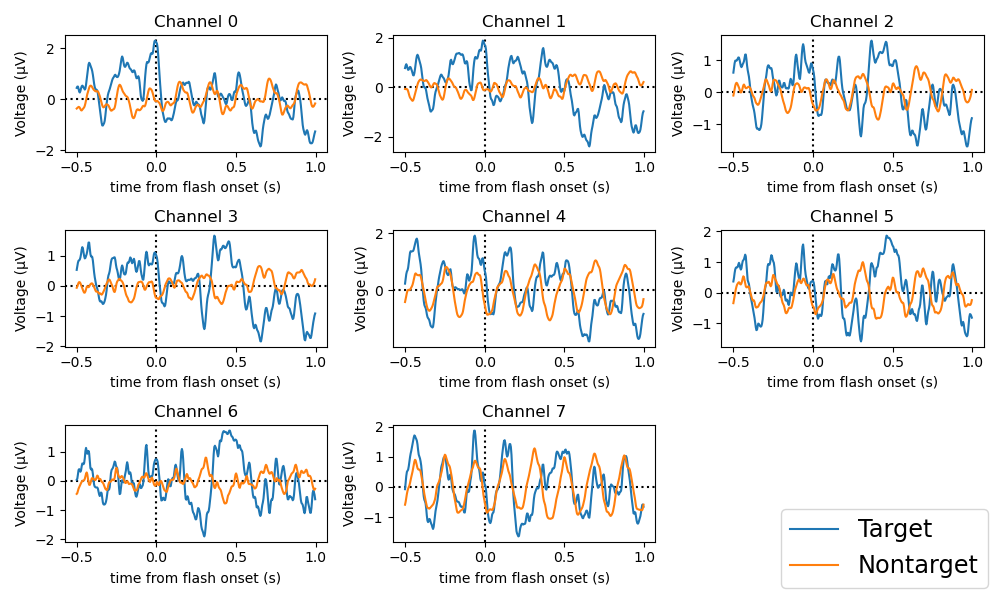
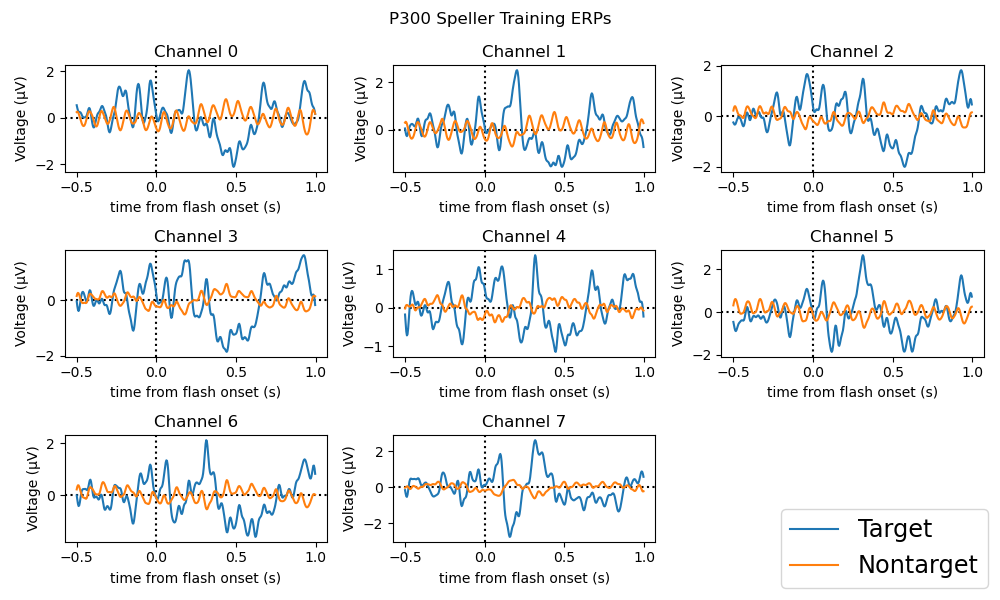
Added temporary plot name, need to determine for subject specific. Uncommented to run data on all subjects.

diff --git a/plot_p300_erps.py b/plot_p300_erps.py
@@ -164,34 +164,52 @@ def plot_erps(target_erp, nontarget_erp, erp_times):
     None.
 
     """
+    """ TODO:
+        
+        - change figure file name and plot label to be specific to each subject
+        
+    """
     
     # transpose the erp data to plot, matches average at that sample time to the size of the time array
     target_erp_transpose = np.transpose(target_erp)
     nontarget_erp_transpose = np.transpose(nontarget_erp)
+    
+    # get channel count
+    channel_count = len(target_erp_transpose) # same as if nontargets were used
     
     # plot ERPs for events for each channel
     channel_fig, channel_plots = plt.subplots(3,3, figsize=(10, 6))
 
     channel_plots[2][2].remove()  # only 8 channels, 9th plot unnecessary
    
-    for channel_index in range(8):
+    for channel_index in range(channel_count):
+        
         row_index, column_index = divmod(channel_index, 3)  # wrap around to column 0 for every 3 plots
         channel_plot = channel_plots[row_index][column_index]
+        
         # plot dotted lines for time 0 and 0 voltage
         channel_plot.axvline(0, color='black', linestyle='dotted')
         channel_plot.axhline(0, color='black', linestyle='dotted')
+        
         # plot target and nontarget erp data in the subplot
         target_handle, = channel_plot.plot(erp_times, target_erp_transpose[channel_index])
         nontarget_handle, = channel_plot.plot(erp_times, nontarget_erp_transpose[channel_index])
+        
         # kind of a dodgy workaround so that the legend only displays each entry once.
         if channel_index == 0:
             target_handle.set_label('Target')
             nontarget_handle.set_label('Nontarget')
+        
         # label each plot's axes and channel number
         channel_plot.set_title(f'Channel {channel_index}')
         channel_plot.set_xlabel('time from flash onset (s)')
         channel_plot.set_ylabel('Voltage (μV)')
-    # big legend in the empty space left by nonexistent plot 9
-    channel_fig.legend(loc='lower right', fontsize='xx-large')
+    
+    # formatting
+    channel_fig.suptitle('P300 Speller Training ERPs')
+    channel_fig.legend(loc='lower right', fontsize='xx-large') # big legend in the empty space left by nonexistent plot 9
     channel_fig.tight_layout()  # stop axis labels overlapping titles
+    
+    
+    # save image
     plt.savefig('P300_channel_plots.png')  # save as image

diff --git a/test_plot_p300_erps.py b/test_plot_p300_erps.py
@@ -53,15 +53,15 @@ plot_erps(target_erp, nontarget_erp, erp_times)
     - answer questions
     
 """
-# # run code for subjects 3-10
-# for subject_index in range(3,11):
+# run code for subjects 3-10
+for subject_index in range(3,11):
     
-#     # call relevant functions
-#     eeg_time, eeg_data, rowcol_id, is_target = load_training_eeg(subject_index) # default path
-#     event_sample, is_target_event = get_events(rowcol_id, is_target)
-#     eeg_epochs, erp_times = epoch_data(eeg_time, eeg_data, event_sample, epoch_start_time=-0.5, epoch_end_time=1)
-#     target_erp, nontarget_erp = get_erps(eeg_epochs, is_target_event)
-#     plot_erps(target_erp, nontarget_erp, erp_times)
+    # call relevant functions
+    eeg_time, eeg_data, rowcol_id, is_target = load_training_eeg(subject_index) # default path
+    event_sample, is_target_event = get_events(rowcol_id, is_target)
+    eeg_epochs, erp_times = epoch_data(eeg_time, eeg_data, event_sample, epoch_start_time=-0.5, epoch_end_time=1)
+    target_erp, nontarget_erp = get_erps(eeg_epochs, is_target_event)
+    plot_erps(target_erp, nontarget_erp, erp_times)
     
 # """
 
